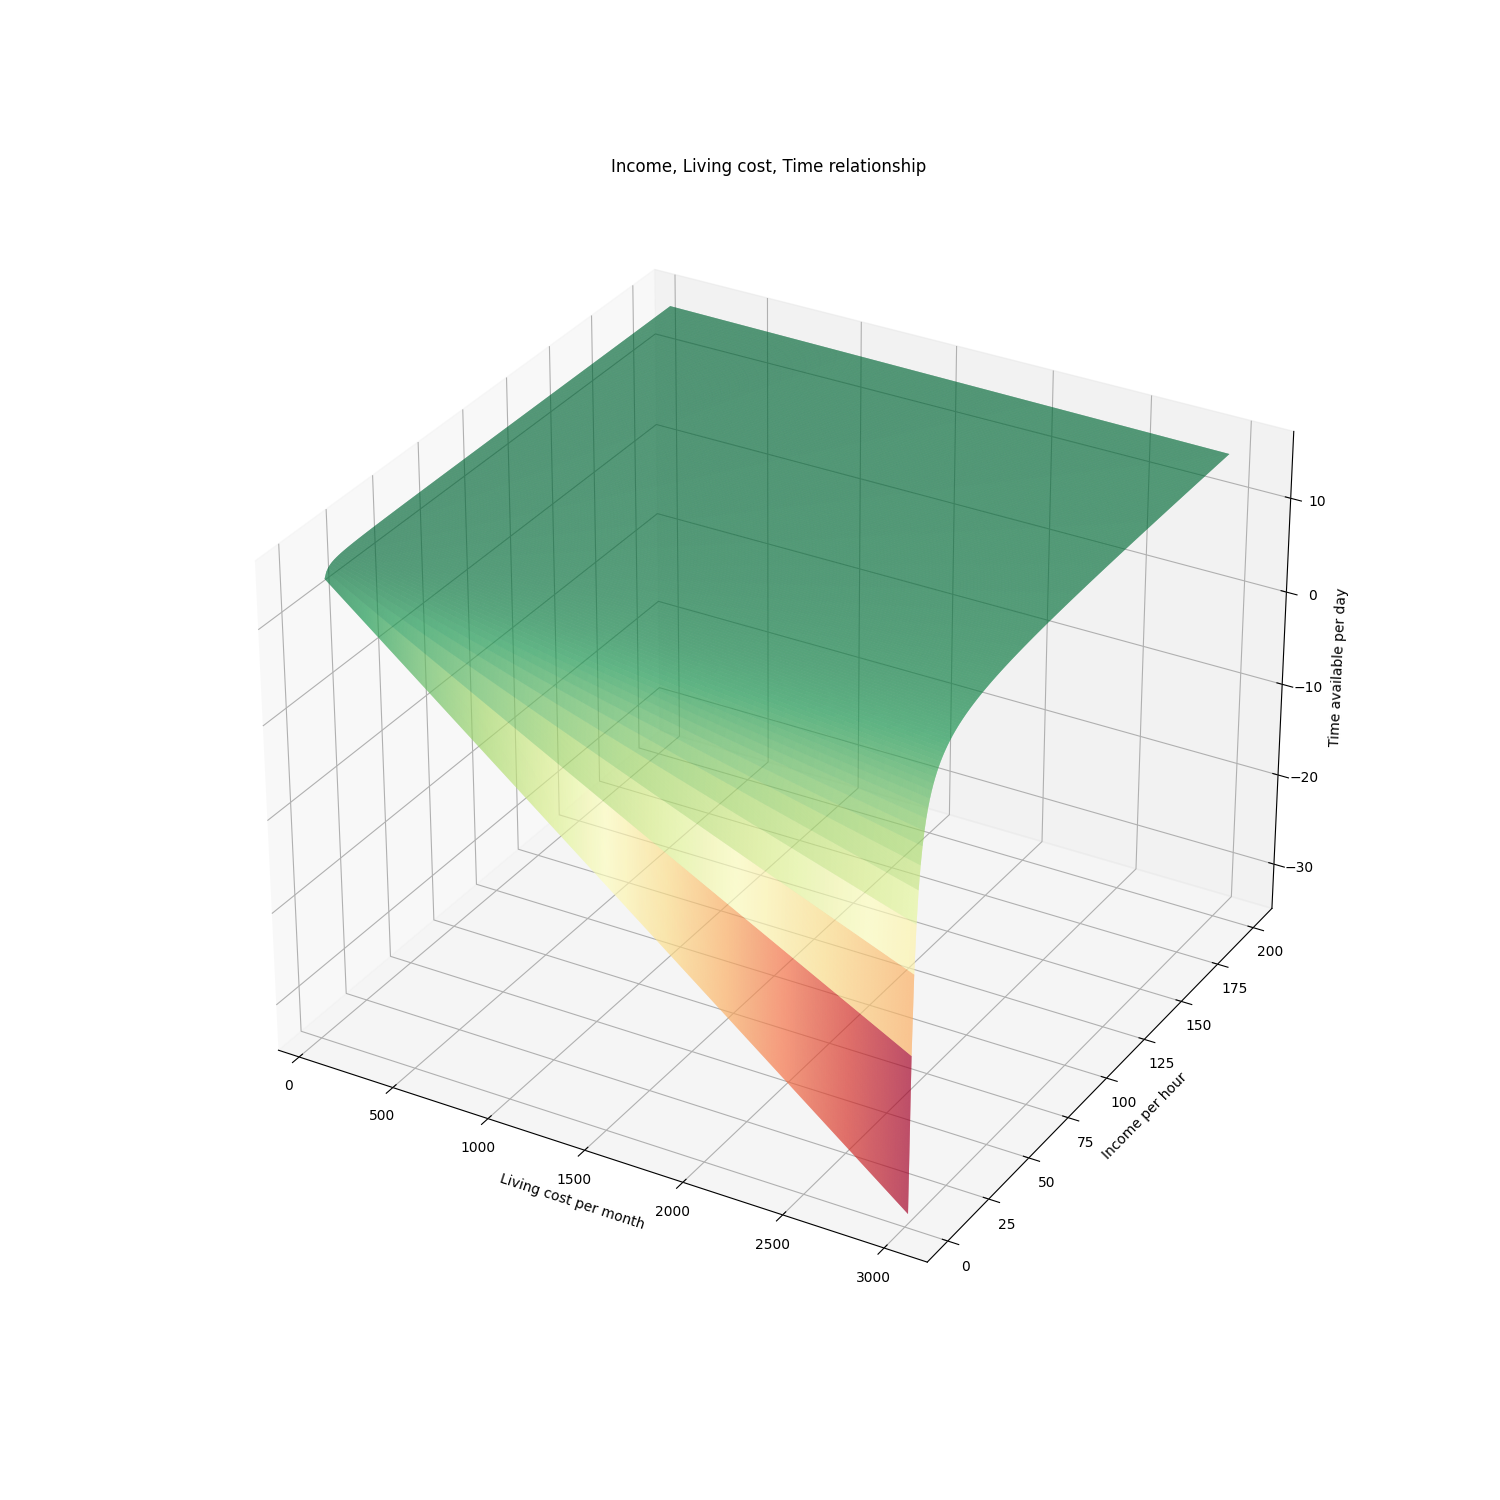
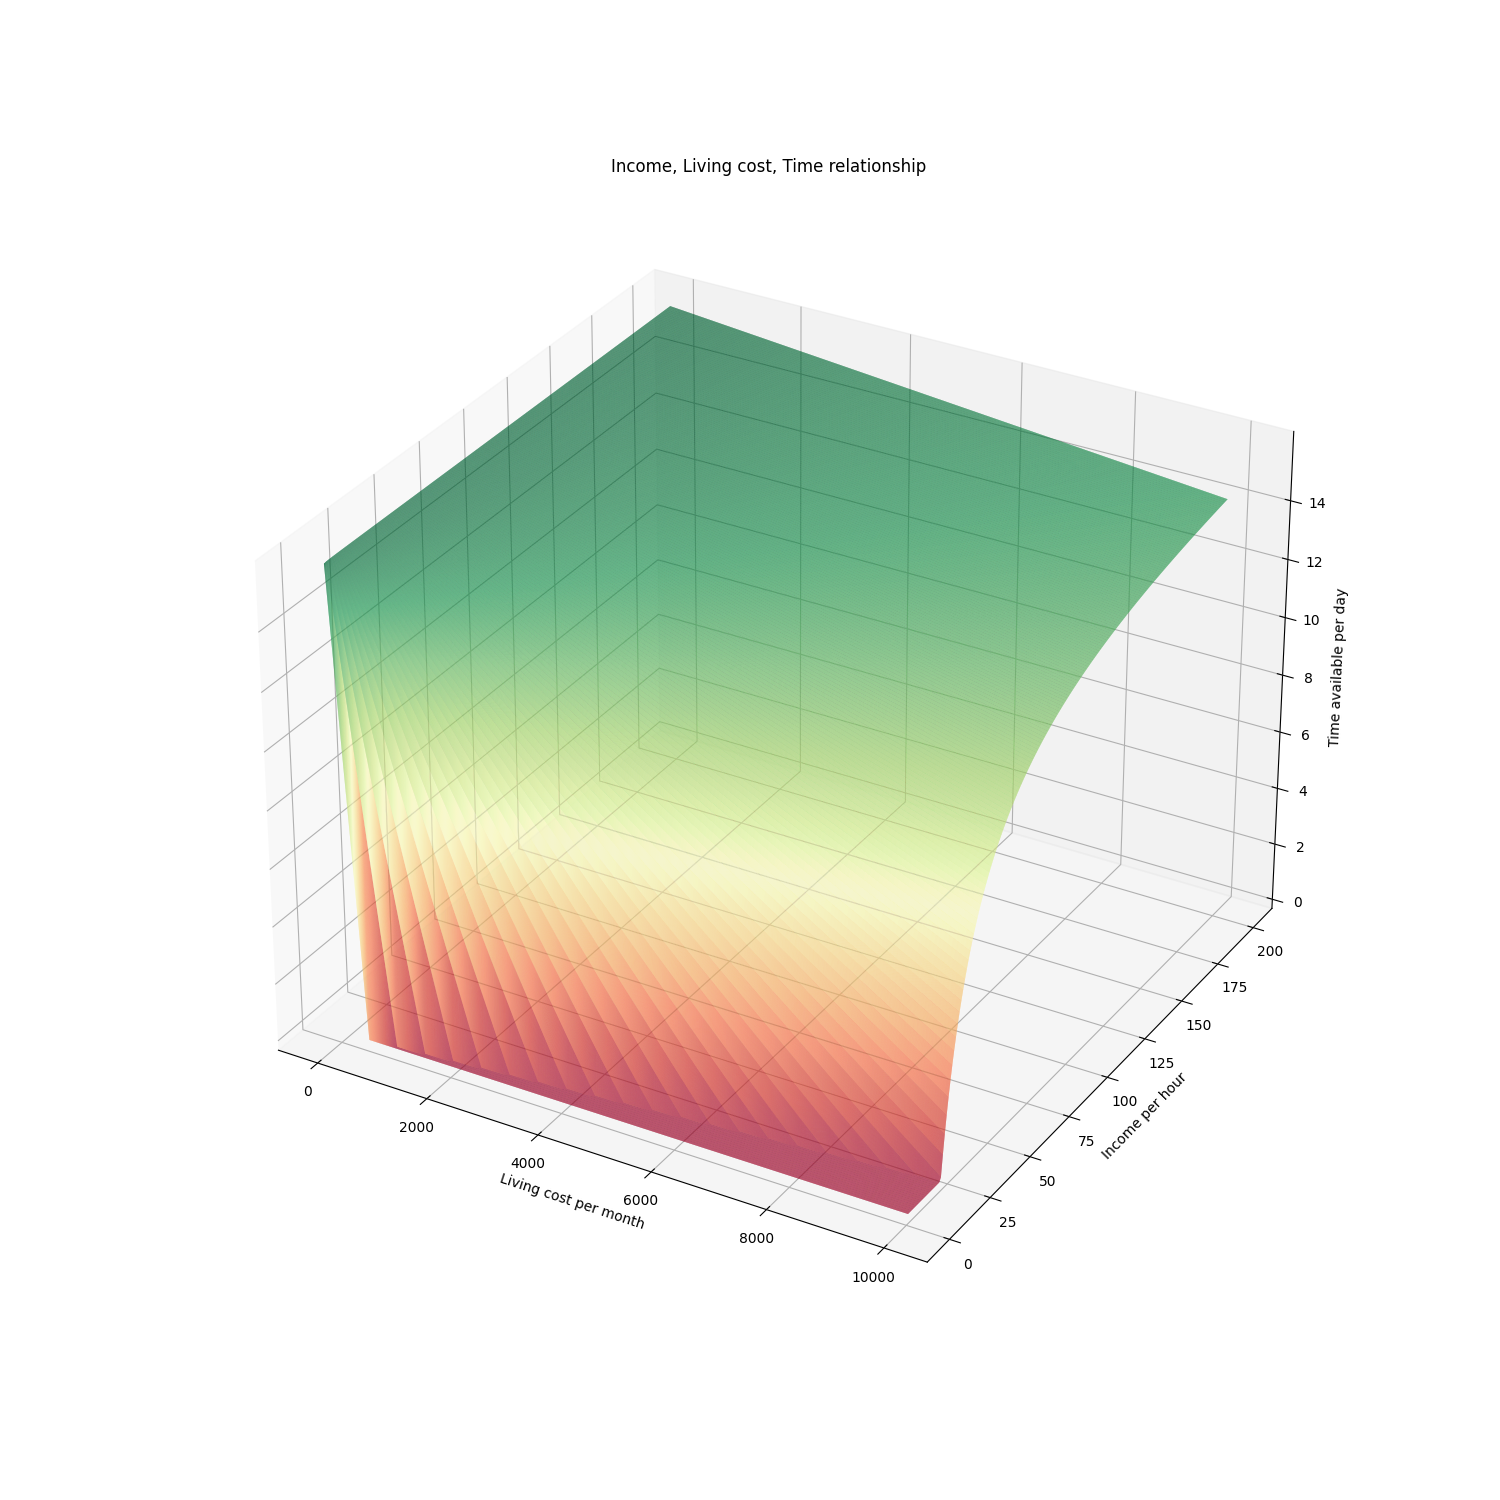
post push

diff --git a/_posts/2023-08-19-income-time-cost.md b/_posts/2023-08-19-income-time-cost.md
@@ -17,3 +17,33 @@ Lets look at the window where this matters the most:
 Here's what the relationship looks like:
 ![The relationship between income, living cost, time](/assets/images/post-2-cost-time-income.png)
 
+The thing to note here is that all of the non-linearity exists on the income side:
+- Cutting down living cost to half halves the time you need to spend at work everyday.
+- But doubling your income will usually mean you need to spend less than half the time required before the income increase at work everyday.
+
+
+# Lower income scenario
+At lower incomes, the time available goes to zero very very quickly. Even a slight increase in living cost requires a huge increase in the time you need to spend at your workplace.
+
+Lets zoom in on this area:
+![The relationship between low income, living cost, time](/assets/images/post-2-low-income.png)
+
+What's the observation here?
+- A lot of fixed costs, like transportation, are a huge hit in the time aspect.
+- Lack of available time means you cannot really upskill yourself.
+- A small misfortune will bankrupt you.
+
+
+# High living costs scenario
+
+Lets look into this area:
+![The relationship between low income, living cost, time](/assets/images/post-2-high-living-cost.png)
+
+The main observation here is that no matter how hard you work, at a lower income level, you cannot do anything more than just survive. Forget about pursuing a hobby or relaxing.
+
+
+# Other thoughts
+
+- Inequality is bad. Because policies are usually made for the average person, the bigger the income inequality, the less these policies help the poorest (or the wealthiest).
+- Time is the most precious commodity, and the poorest have it the least. It is also needed to learn and upskill and the lack of it isn't helpful to the ones that want to better their lives.
+- Its hard to find a place with lots of employment opportunities but low living cost. Places like these are the need of the hour.
